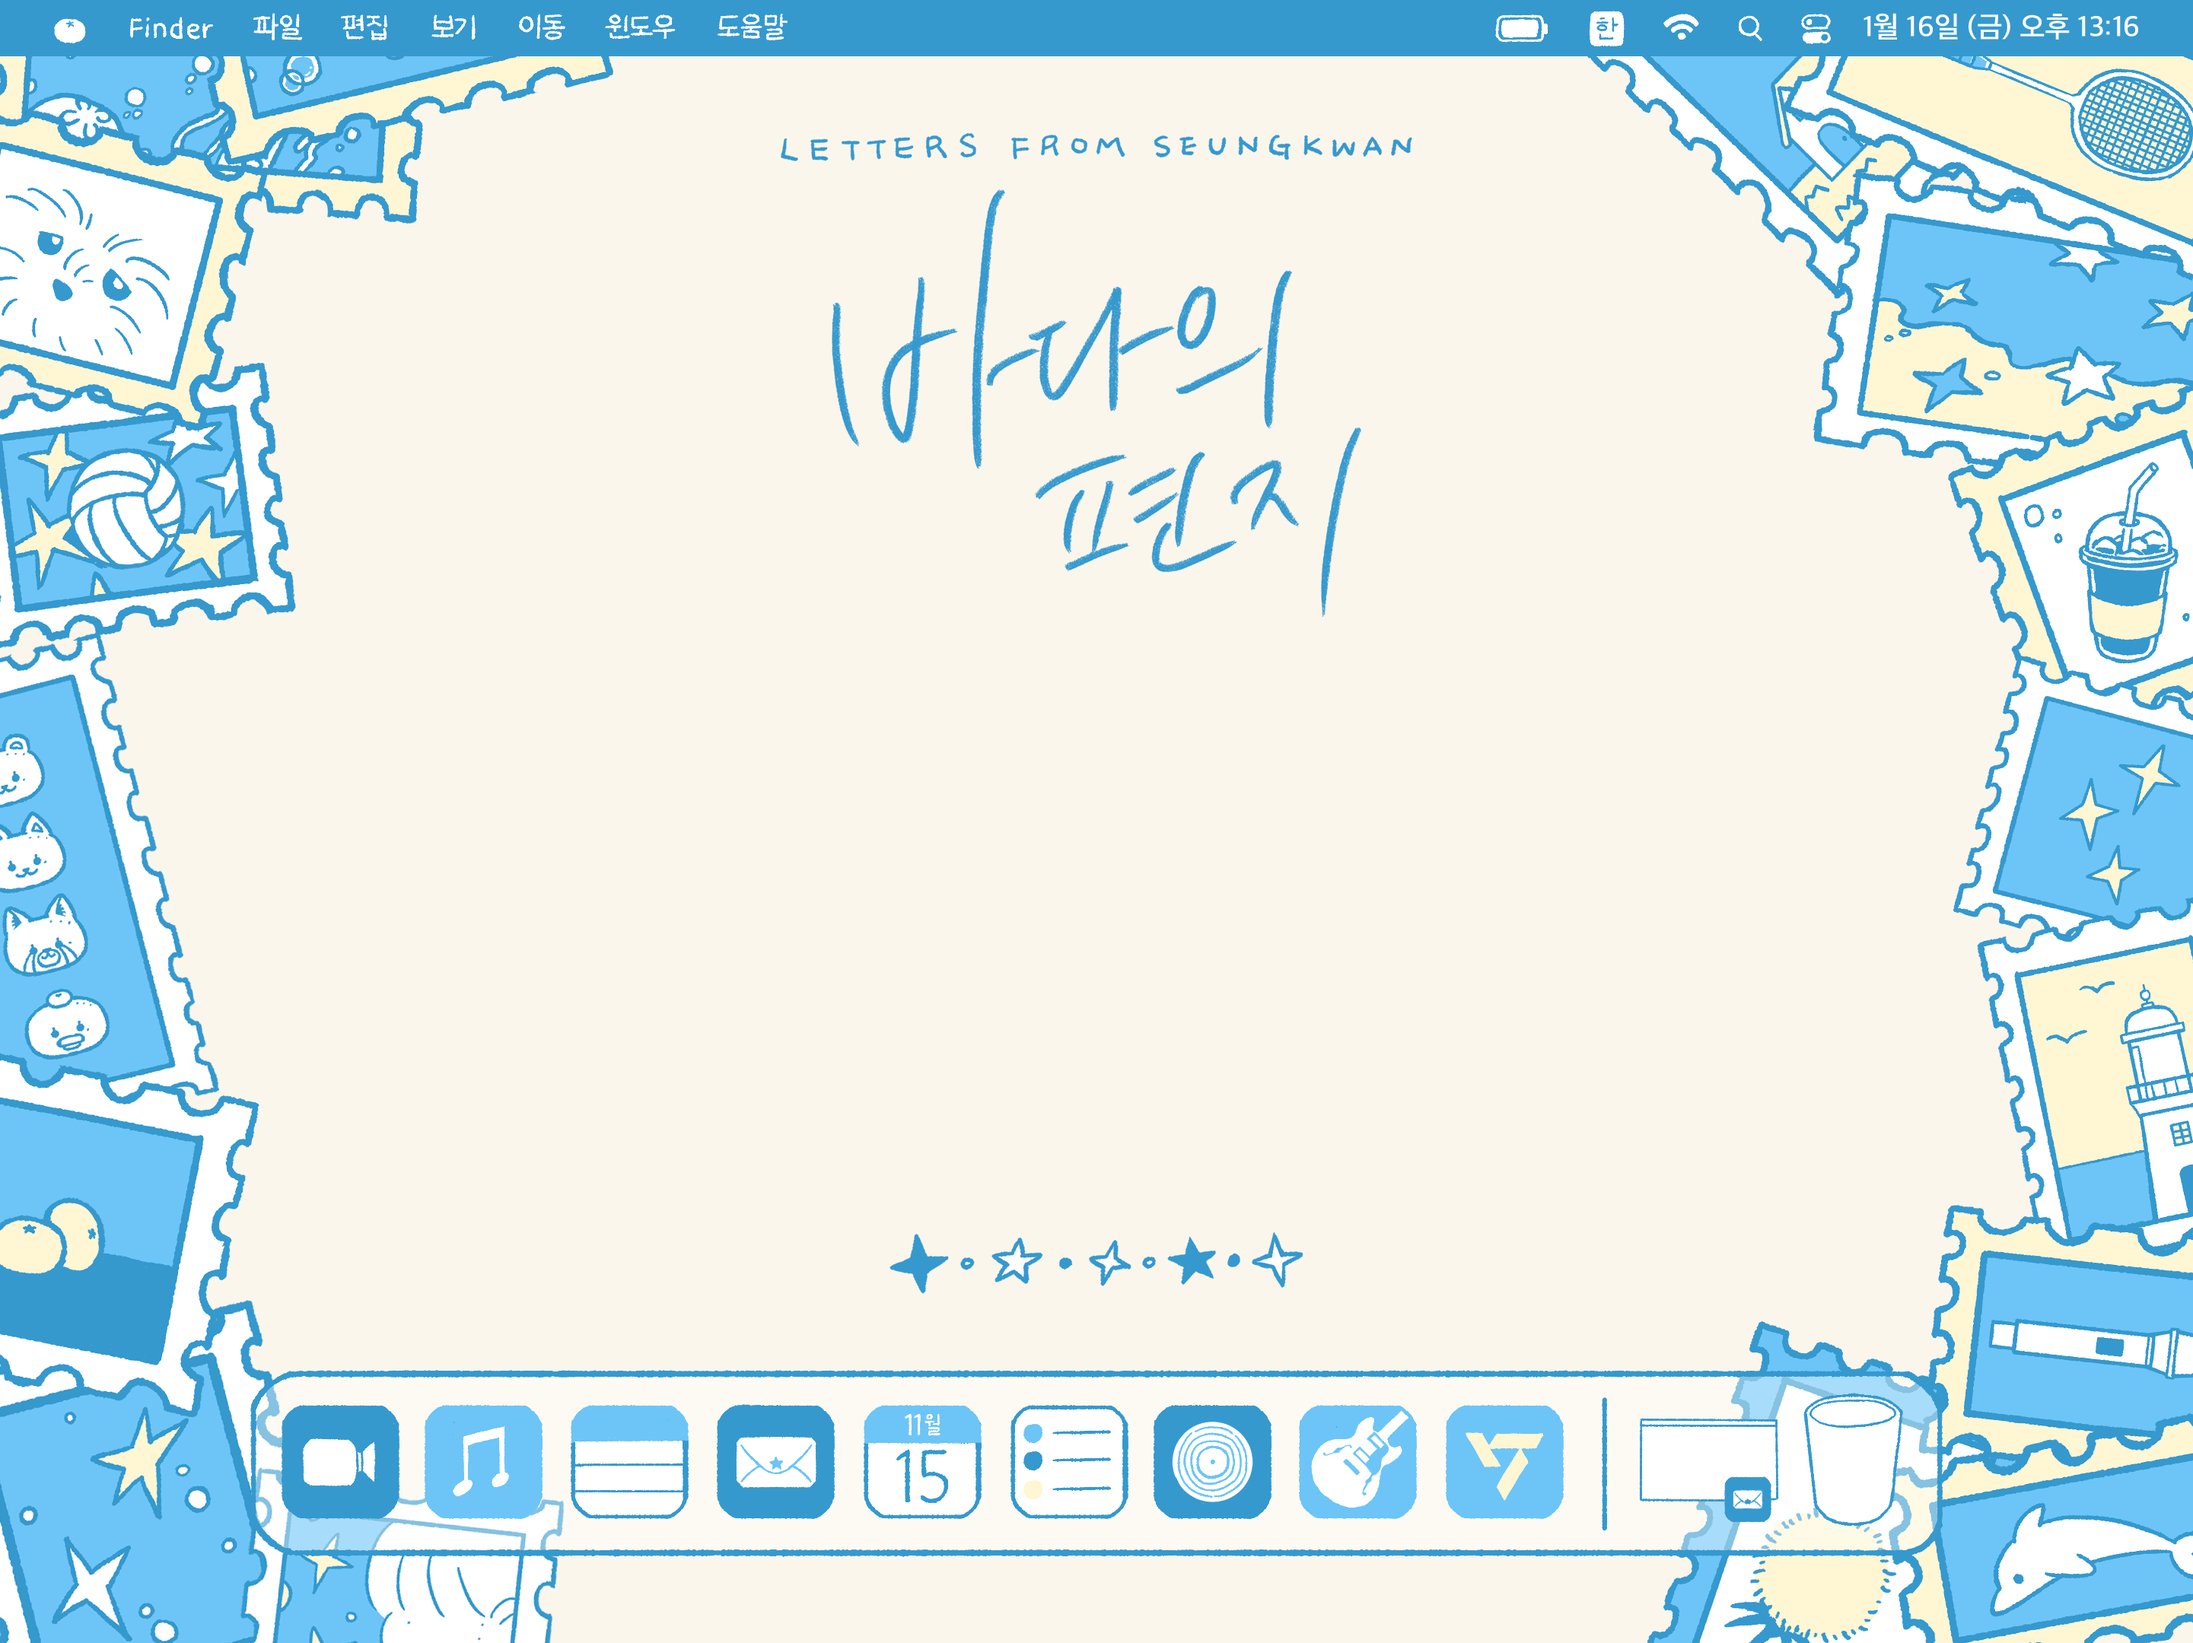
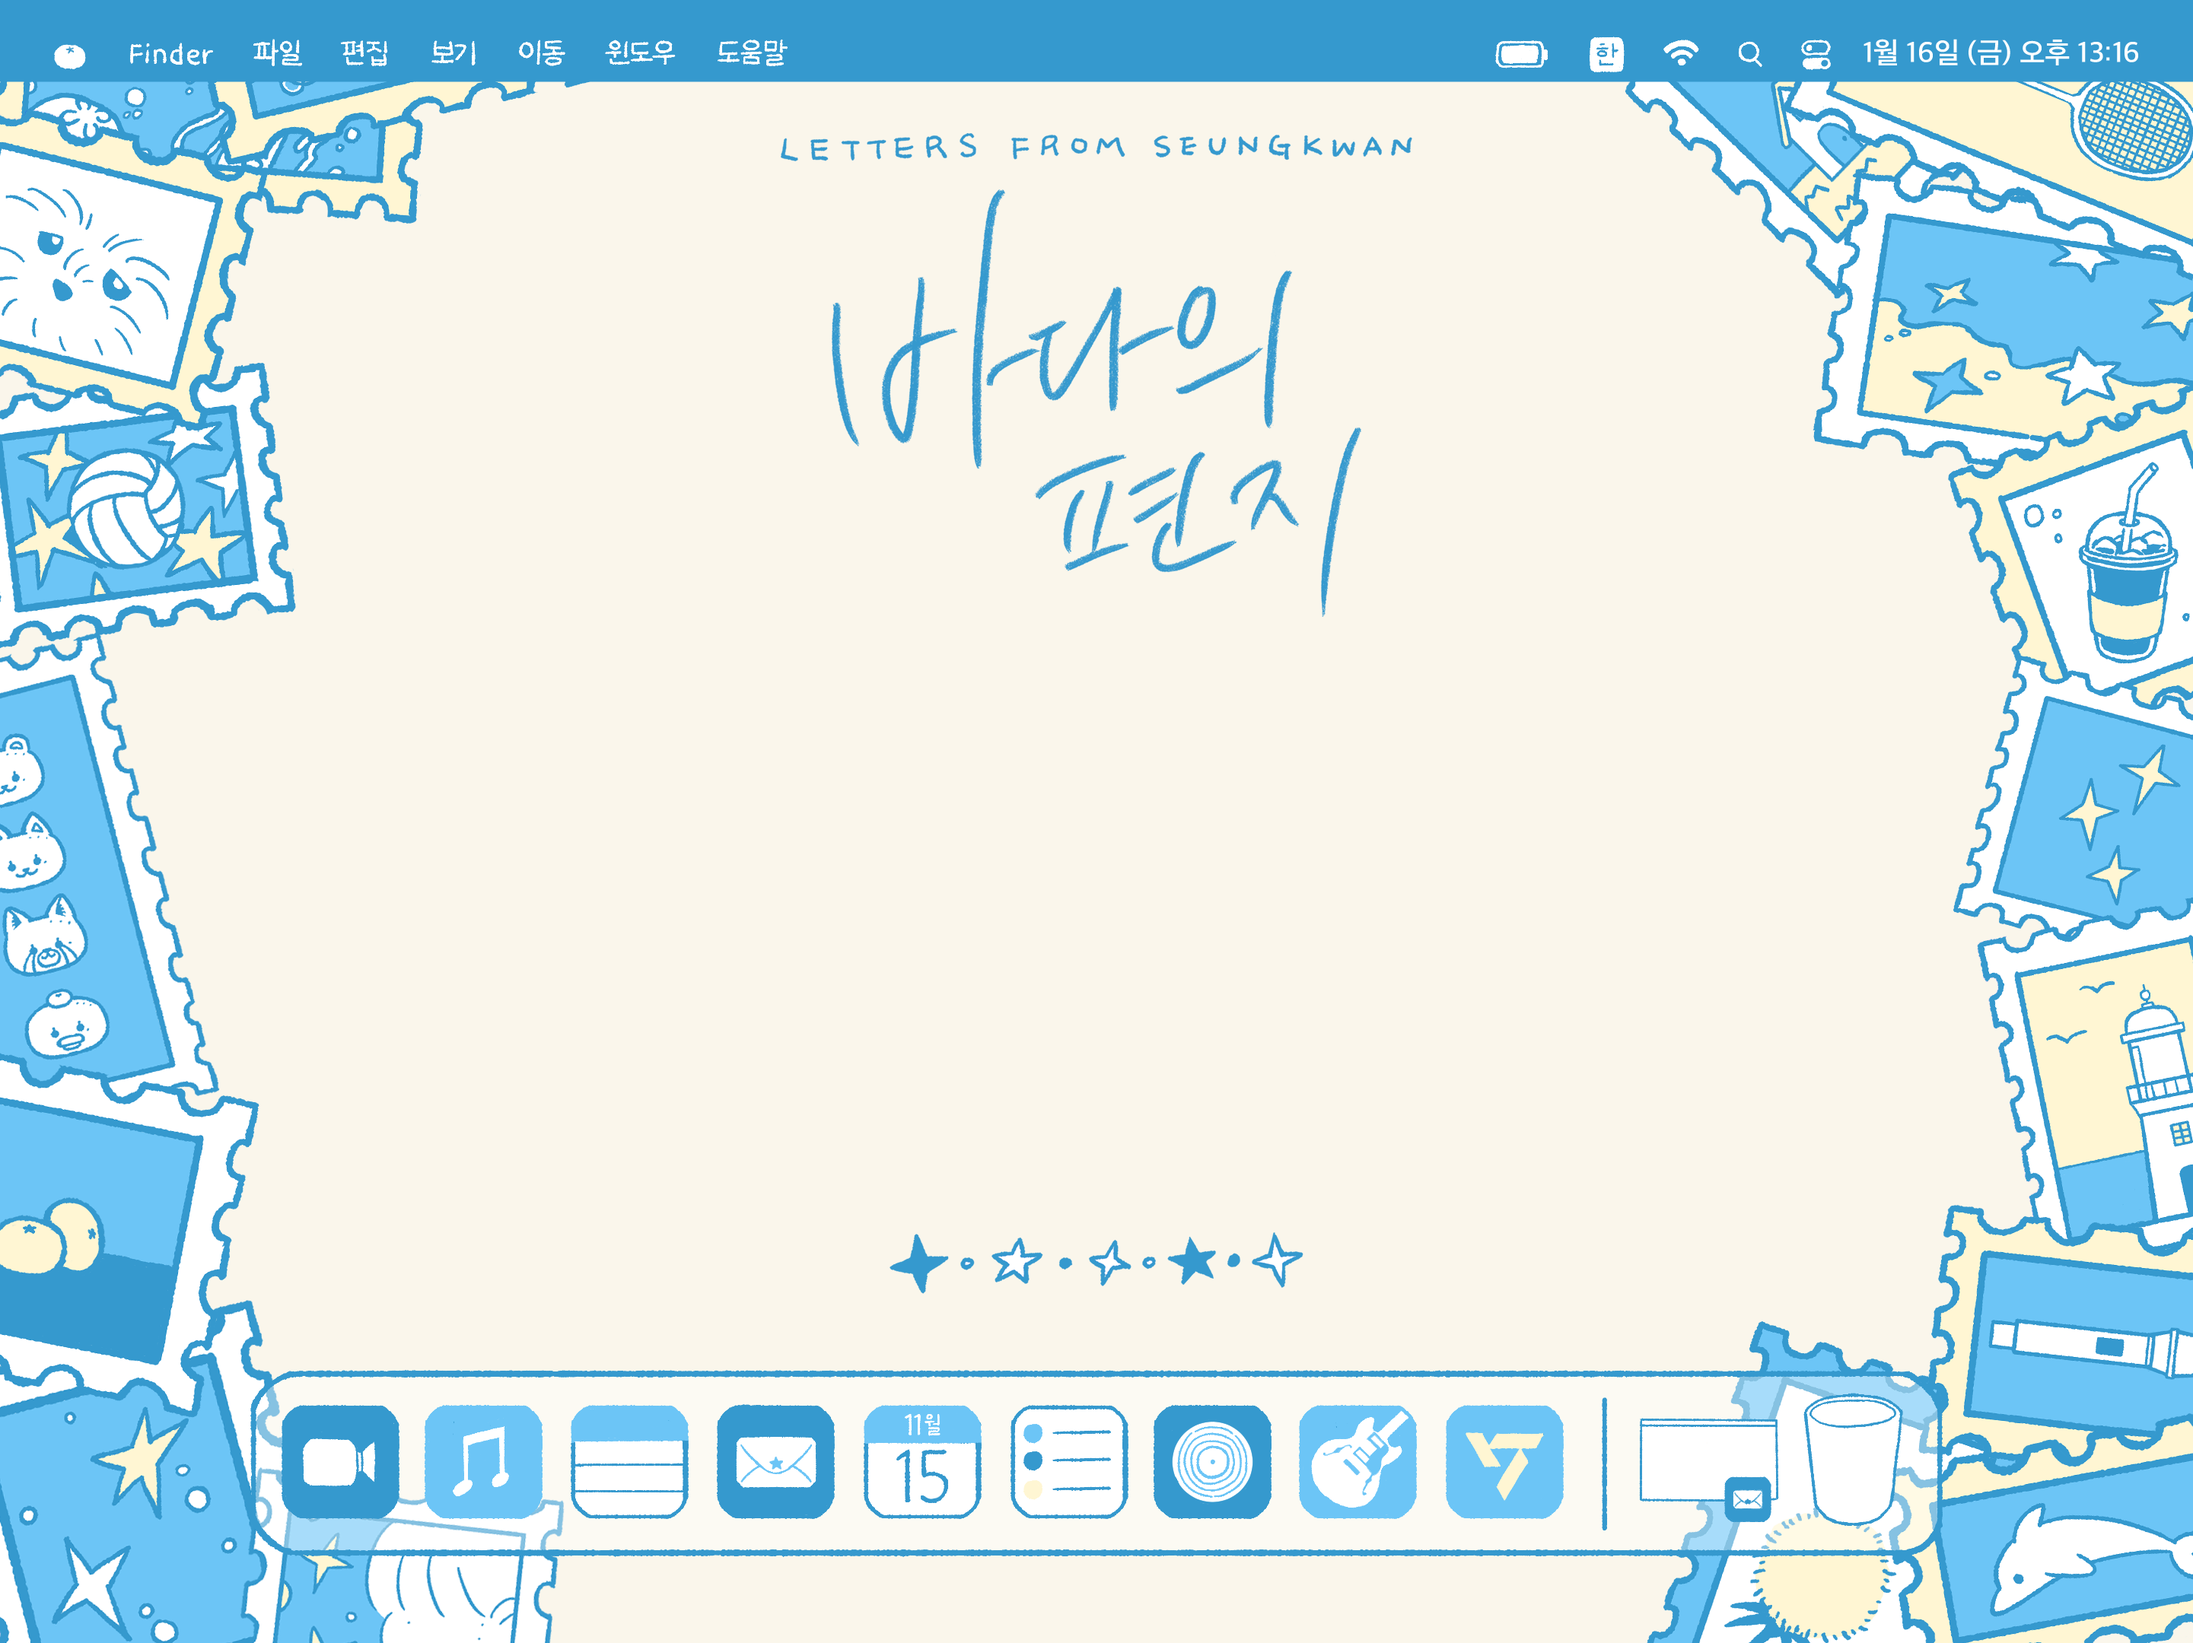
수정사항 적용

Changed region(s): [[0.0, 0.0, 1.0, 0.062]]

diff --git a/src/pages/css/draw.css b/src/pages/css/draw.css
@@ -252,12 +252,12 @@
     overflow: hidden;
     background-color: transparent;
     display: block;
-    width: 250px;
-    height: 40px;
+    width: 394px;
+    height: 18px;
     position: absolute;
     left: 50%;
-    margin-left: -125px;
-    bottom: 215px;
+    margin-left: -197px;
+    top: 83px;
 }
 
 .draw-contents h2,
